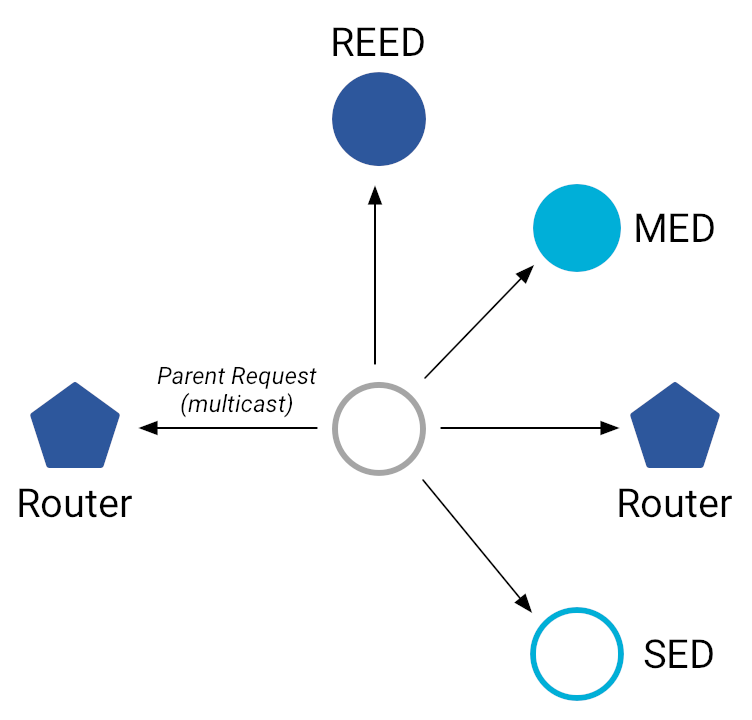
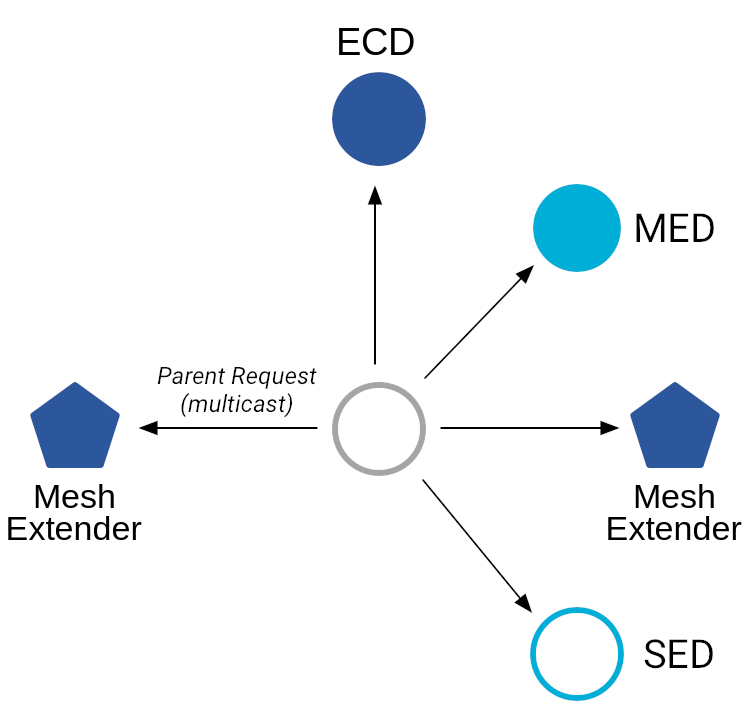
updated graphics to use current terminology

Changed region(s): [[0.0, 0.6722, 0.1835, 0.7639], [0.7952, 0.6722, 0.9787, 0.7639], [0.4282, 0.0306, 0.5811, 0.0917]]

diff --git a/site/en/guides/thread-primer/ipv6-addressing.md b/site/en/guides/thread-primer/ipv6-addressing.md
@@ -10,7 +10,7 @@ a single Thread interface.
 ## Scopes
 
 <figure class="attempt-right">
-<a href="../images/ot-primer-scopes_2x.png"><img src="../images/ot-primer-scopes.png" srcset="../images/ot-primer-scopes.png 1x, ../images/ot-primer-scopes_2x.png 2x" border="0" alt="OT Scopes" /></a>
+<a href="../images/ot-primer-scopes.png"><img src="../images/ot-primer-scopes.png" alt="OT Scopes" /></a>
 </figure>
 
 There are three scopes in a Thread network for unicast addressing:
@@ -42,7 +42,7 @@ number in a Mesh Extender (pentagon) is the Router ID, and the number
 in an End Device (circle) is the Child ID:
 
 <figure>
-<a href="../images/ot-primer-rloc-topology_2x.png"><img src="../images/ot-primer-rloc-topology.png" srcset="../images/ot-primer-rloc-topology.png 1x, ../images/ot-primer-rloc-topology_2x.png 2x" border="0" width="600" alt="OT RLOC Topology" /></a>
+<a href="../images/ot-primer-rloc-topology.png"><img src="../images/ot-primer-rloc-topology.png" width="600" alt="OT RLOC Topology" /></a>
 </figure>
 
 Each Child's Router ID corresponds to its Parent (Mesh
@@ -55,7 +55,7 @@ For example, here's how the RLOC16 is calculated for the upper-left node (Router
 ID = 1 and Child ID = 1):
 
 <figure>
-<a href="../images/ot-primer-rloc16_2x.png"><img src="../images/ot-primer-rloc16.png" srcset="../images/ot-primer-rloc16.png 1x, ../images/ot-primer-rloc16_2x.png 2x" border="0" width="400" alt="OT RLOC16" /></a>
+<a href="../images/ot-primer-rloc16.png"><img src="../images/ot-primer-rloc16.png" width="400" alt="OT RLOC16" /></a>
 </figure>
 
 The RLOC16 is part of the Interface Identifier (IID), which corresponds to the
@@ -71,13 +71,13 @@ using a Mesh-Local Prefix of `fde5:8dba:82e1:1::/64`, the RLOC for a node where
 RLOC16 = `0x401` is:
 
 <figure>
-<a href="../images/ot-primer-rloc_2x.png"><img src="../images/ot-primer-rloc.png" srcset="../images/ot-primer-rloc.png 1x, ../images/ot-primer-rloc_2x.png 2x" border="0" width="600" alt="OT RLOC" /></a>
+<a href="../images/ot-primer-rloc.png"><img src="../images/ot-primer-rloc.png" width="600" alt="OT RLOC" /></a>
 </figure>
 
 This same logic can be used to determine the RLOC for all highlighted nodes in the sample topology above:
 
 <figure>
-<a href="../images/ot-primer-rloc-topology-address_2x.png"><img src="../images/ot-primer-rloc-topology-address.png" srcset="../images/ot-primer-rloc-topology-address.png 1x, ../images/ot-primer-rloc-topology-address_2x.png 2x" border="0" width="600" alt="OT Topology w/ Address" /></a>
+<a href="../images/ot-primer-rloc-topology-address.png"><img src="../images/ot-primer-rloc-topology-address.png" width="600" alt="OT Topology w/ Address" /></a>
 </figure>
 
 However, because the RLOC is based on the location of the node in the topology,
@@ -89,7 +89,7 @@ Mesh Extenders, and as a result they are each assigned a new RLOC16
 and RLOC:
 
 <figure>
-<a href="../images/ot-primer-rloc-topology-change_2x.png"><img src="../images/ot-primer-rloc-topology-change.png" srcset="../images/ot-primer-rloc-topology-change.png 1x, ../images/ot-primer-rloc-topology-change_2x.png 2x" border="0" width="600" alt="OT Topology after Change" /></a>
+<a href="../images/ot-primer-rloc-topology-change.png"><img src="../images/ot-primer-rloc-topology-change.png" width="600" alt="OT Topology after Change" /></a>
 </figure>
 
 ## Unicast address types

diff --git a/site/en/guides/thread-primer/node-roles-and-types.md b/site/en/guides/thread-primer/node-roles-and-types.md
@@ -3,7 +3,7 @@
 ## Forwarding roles
 
 <figure class="attempt-right">
-<a href="../images/ot-primer-roles_2x.png"><img src="../images/ot-primer-roles.png" srcset="../images/ot-primer-roles.png 1x, ../images/ot-primer-roles_2x.png 2x" border="0" alt="OT Node Roles" /></a>
+<a href="../images/ot-primer-roles.png"><img src="../images/ot-primer-roles.png" alt="OT Node Roles" /></a>
 </figure>
 
 In a Thread network, nodes are split into two forwarding roles:
@@ -34,7 +34,7 @@ the Child.
 Furthermore, nodes comprise a number of types.
 
 <figure class="attempt-right">
-<a href="../images/ot-primer-taxonomy.png"><img src="../images/ot-primer-taxonomy.png" border="0" alt="OT Device Taxonomy" /></a>
+<a href="../images/ot-primer-taxonomy.png"><img src="../images/ot-primer-taxonomy.png" alt="OT Device Taxonomy" /></a>
 </figure>
 
 ### Full Thread Device
@@ -72,14 +72,14 @@ wishing to join the Thread network, it can upgrade itself and operate
 as a Mesh Extender:
 
 <figure>
-<a href="../images/ot-primer-router-upgrade_2x.png"><img src="../images/ot-primer-router-upgrade.png" srcset="../images/ot-primer-router-upgrade.png 1x, ../images/ot-primer-router-upgrade_2x.png 2x" border="0" width="400" alt="OT End Device to Mesh Extender" /></a>
+<a href="../images/ot-primer-router-upgrade.png"><img src="../images/ot-primer-router-upgrade.png" width="400" alt="OT End Device to Mesh Extender" /></a>
 </figure>
 
 Conversely, when a Mesh Extender has no children, it can downgrade
 itself and operate as a standby ECD:
 
 <figure>
-<a href="../images/ot-primer-router-downgrade_2x.png"><img src="../images/ot-primer-router-downgrade.png" srcset="../images/ot-primer-router-downgrade.png 1x, ../images/ot-primer-router-downgrade_2x.png 2x" border="0" width="400" alt="OT Mesh Extender to End Device" /></a>
+<a href="../images/ot-primer-router-downgrade.png"><img src="../images/ot-primer-router-downgrade.png" width="400" alt="OT Mesh Extender to End Device" /></a>
 </figure>
 
 ## Other roles and types
@@ -87,7 +87,7 @@ itself and operate as a standby ECD:
 ### Thread Leader
 
 <figure class="attempt-right">
-<a href="../images/ot-primer-leader_2x.png"><img src="../images/ot-primer-leader.png" srcset="../images/ot-primer-leader.png 1x, ../images/ot-primer-leader_2x.png 2x" border="0" alt="OT Leader and Border Router" /></a>
+<a href="../images/ot-primer-leader.png"><img src="../images/ot-primer-leader.png" alt="OT Leader and Border Router" /></a>
 </figure>
 
 The Thread Leader is a Mesh Extender that is responsible for managing
@@ -111,7 +111,7 @@ Note: There can be multiple Border Routers in a Thread network.
 ## Partitions
 
 <figure class="attempt-right">
-<a href="../images/ot-primer-partitions_2x.png"><img src="../images/ot-primer-partitions.png" srcset="../images/ot-primer-partitions.png 1x, ../images/ot-primer-partitions_2x.png 2x" border="0" alt="OT Partitions" /></a>
+<a href="../images/ot-primer-partitions.png"><img src="../images/ot-primer-partitions.png" alt="OT Partitions" /></a>
 </figure>
 
 A Thread network might be composed of partitions. This occurs when a group of

diff --git a/site/en/guides/thread-primer/network-discovery.md b/site/en/guides/thread-primer/network-discovery.md
@@ -17,7 +17,7 @@ XPAN ID | `0xBEEF1111CAFE2222`
 Network Name | `yourThreadCafe`
 
 <figure class="attempt-right">
-<a href="../images/ot-primer-network-active-scan.png"><img src="../images/ot-primer-network-active-scan.png" border="0" alt="OT Active Scan" /></a>
+<a href="../images/ot-primer-network-active-scan.png"><img src="../images/ot-primer-network-active-scan.png" alt="OT Active Scan" /></a>
 </figure>
 
 When creating a new Thread network, or searching for an existing one to join, a
@@ -94,7 +94,7 @@ A Parent Request is a multicast request from the attaching device that is used
 to discover neighboring Extender-Capable Devices in the target network.
 
 <figure>
-<a href="../images/ot-primer-network-mle-attach-01.png"><img src="../images/ot-primer-network-mle-attach-01.png" width="350" border="0" alt="OT MLE Attach Parent Request" /></a>
+<a href="../images/ot-primer-network-mle-attach-01.png"><img src="../images/ot-primer-network-mle-attach-01.png" width="350" alt="OT MLE Attach Parent Request" /></a>
 </figure>
 
 <table>
@@ -124,7 +124,7 @@ provides information about an Extender-Capable Device to the attaching
 device.
 
 <figure>
-<a href="../images/ot-primer-network-mle-attach-02.png"><img src="../images/ot-primer-network-mle-attach-02.png" width="350" border="0" alt="OT MLE Attach Parent Response" /></a>
+<a href="../images/ot-primer-network-mle-attach-02.png"><img src="../images/ot-primer-network-mle-attach-02.png" width="350" alt="OT MLE Attach Parent Response" /></a>
 </figure>
 
 <table>
@@ -186,7 +186,7 @@ a standby Extender-Capable Device, it [upgrades itself to a Mesh
 Extender](router-selection.md) before accepting the request.
 
 <figure>
-<a href="../images/ot-primer-network-mle-attach-03.png"><img src="../images/ot-primer-network-mle-attach-03.png" width="350" border="0" alt="OT MLE Attach Child ID Request" /></a>
+<a href="../images/ot-primer-network-mle-attach-03.png"><img src="../images/ot-primer-network-mle-attach-03.png" width="350" alt="OT MLE Attach Child ID Request" /></a>
 </figure>
 
 <table>
@@ -233,7 +233,7 @@ A Child ID Response is a unicast response from the Parent that is sent to the
 Child to confirm that a Child-Parent link has been established.
 
 <figure>
-<a href="../images/ot-primer-network-mle-attach-04.png"><img src="../images/ot-primer-network-mle-attach-04.png" width="350" border="0" alt="OT MLE Attach Child ID Response" /></a>
+<a href="../images/ot-primer-network-mle-attach-04.png"><img src="../images/ot-primer-network-mle-attach-04.png" width="350" alt="OT MLE Attach Child ID Response" /></a>
 </figure>
 
 <table>

diff --git a/site/en/guides/thread-primer/mesh-extender-selection.md b/site/en/guides/thread-primer/mesh-extender-selection.md
@@ -3,7 +3,7 @@
 ## Connected Dominating Set
 
 <figure class="attempt-right">
-<a href="../images/ot-primer-cds.png"><img src="../images/ot-primer-cds.png" width="350" border="0" alt="OT Connected Dominating Set" /></a><figcaption style="text-align: center"><i>Example of a Connected Dominating Set</i></figcaption>
+<a href="../images/ot-primer-cds.png"><img src="../images/ot-primer-cds.png" width="350" alt="OT Connected Dominating Set" /></a><figcaption style="text-align: center"><i>Example of a Connected Dominating Set</i></figcaption>
 </figure>
 
 Mesh Extenders must form a Connected Dominating Set (CDS), which means:
@@ -59,7 +59,7 @@ discovering the other Mesh Extenders via MLE Advertisements, the
 devices send unicast Link Requests.
 
 <figure>
-<a href="../images/ot-primer-network-mle-link-request-01.png"><img src="../images/ot-primer-network-mle-link-request-01.png" width="350" border="0" alt="OT MLE Link Request" /></a>
+<a href="../images/ot-primer-network-mle-link-request-01.png"><img src="../images/ot-primer-network-mle-link-request-01.png" width="350" alt="OT MLE Link Request" /></a>
 </figure>
 
 <table>
@@ -97,7 +97,7 @@ messages. Thread uses this optimization in the MLE Link Request process to
 reduce the number of messages from four to three.
 
 <figure>
-<a href="../images/ot-primer-network-mle-link-request-02.png"><img src="../images/ot-primer-network-mle-link-request-02.png" width="350" border="0" alt="OT MLE Link Accept and Request" /></a>
+<a href="../images/ot-primer-network-mle-link-request-02.png"><img src="../images/ot-primer-network-mle-link-request-02.png" width="350" alt="OT MLE Link Accept and Request" /></a>
 </figure>
 
 ### 3. Link Accept
@@ -107,7 +107,7 @@ neighboring Mesh Extender that provides information about itself and
 accepts the link to the neighboring Mesh Extender.
 
 <figure>
-<a href="../images/ot-primer-network-mle-link-request-03.png"><img src="../images/ot-primer-network-mle-link-request-03.png" width="350" border="0" alt="OT MLE Link Accept" /></a>
+<a href="../images/ot-primer-network-mle-link-request-03.png"><img src="../images/ot-primer-network-mle-link-request-03.png" width="350" alt="OT MLE Link Accept" /></a>
 </figure>
 
 <table>

diff --git a/site/en/guides/thread-primer/index.md b/site/en/guides/thread-primer/index.md
@@ -1,7 +1,7 @@
 # What is Thread?
 
 <figure class="attempt-right">
-<img src="../images/ot-logo-thread.png" srcset="../images/ot-logo-thread.png 1x, ../images/ot-logo-thread_2x.png 2x" border="0" alt="Thread" />
+<img src="../images/ot-logo-thread.png" alt="Thread" />
 </figure>
 
 <a href="http://threadgroup.org/">Thread<sup>®</sup></a> is an IPv6-based
